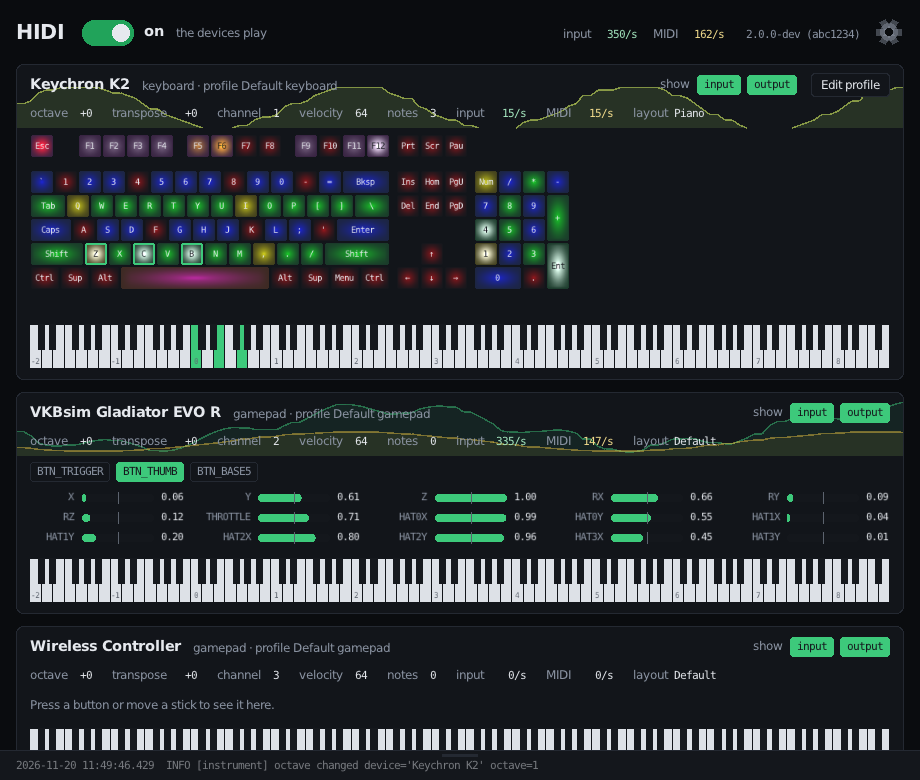
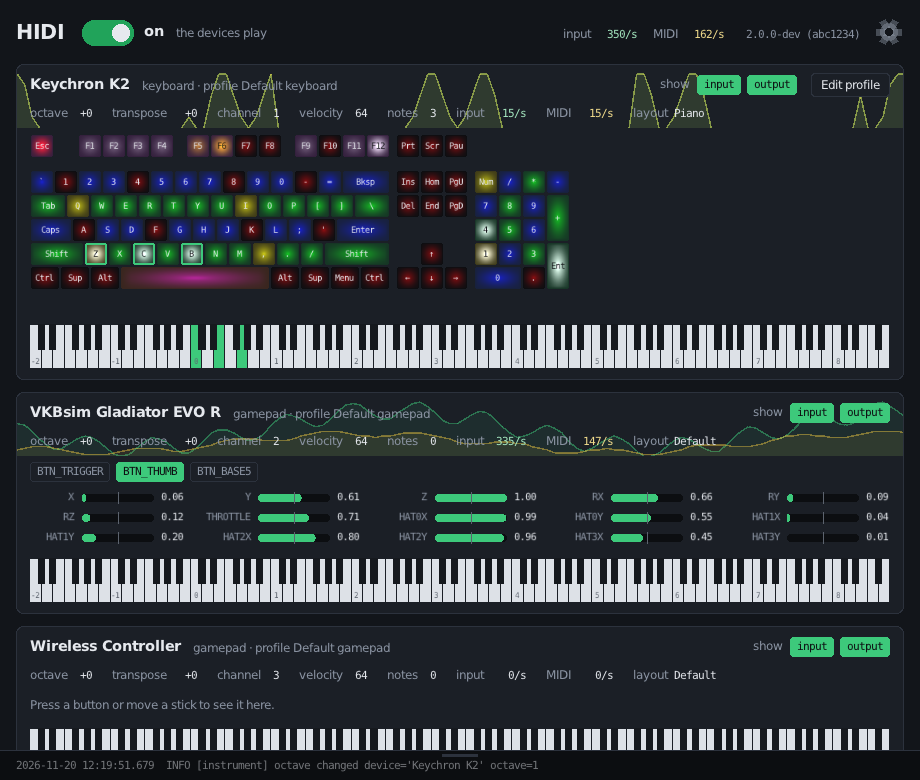
Documentation and pictures: the curves, the theme, Valve's controllers
Claude-Session: https://claude.ai/code/session_01BSpi87DutHCzCjSX2Ru5Rd

diff --git a/README.md b/README.md
@@ -165,8 +165,9 @@ turns HIDI off and on" in the
 ## The window
 
 Each instrument has two lines: its name and profile, and its state. Behind
-them runs a curve of the last twelve seconds: green for what came in from
-the device, yellow for what went out as MIDI. The two numbers for it take
+them runs a curve of the last twelve seconds, a tenth of a second at a
+time: green for what came in from the device, yellow for what went out as
+MIDI. The two numbers for it take
 the same colours while they are not zero, and the top of the window has them
 for all instruments together.
 The switches "input" and "output" beside "show" add what the device reports
@@ -492,6 +493,30 @@ Windows MIDI Services.
 
 `hidi --headless -v` logs every device HIDI looked at and why it left it
 alone, and `--log-midi` every MIDI message it sends.
+
+### Valve's Steam Controller
+
+On Linux the kernel's `hid-steam` driver presents Valve's controllers as
+game controllers, and HIDI plays them with a profile of its own, "Steam
+Controller": the stick bends the pitch, the trackpads and triggers send
+controllers, the buttons and paddles play notes.
+
+- Steam must not be running. While it is, it takes the controller for
+  itself and the kernel takes the game controller away.
+- The controller of 2015 works with any current kernel. While HIDI has it
+  open, its pads stop moving the mouse.
+- The controller of 2026 and the Steam Deck's controls need a kernel that
+  knows them; for the controller of 2026 that is a very recent one. They
+  start as a mouse and keyboard, and send nothing to HIDI until you hold
+  the button with the three lines (Start) for half a second, which
+  switches them to being a game controller. The same again switches back.
+- The motion sensors show up as a part called "Motion Sensors"; the
+  profile does not use them.
+
+On Windows these controllers are not supported yet. They speak a protocol
+of Valve's own there, and without Steam they are only a mouse and a
+keyboard. With Steam running and its controller support turned on, Steam
+presents them as an Xbox controller, which HIDI plays like any other.
 
 ### Beside an input remapper
 

diff --git a/docs/roadmap.md b/docs/roadmap.md
@@ -305,6 +305,18 @@ Later the same day, into the same pull request:
 Not tried: Windows; the keys of the editor with a keyboard HIDI has
 grabbed, which do not reach the window, as the page says.
 
+And after that:
+
+| Asked for | What was done |
+|---|---|
+| The curves without averaging, a tenth of a second at a time. | An instrument keeps the last 122 steps of a tenth of a second, each the events of that step alone, and sends them with its state. The two numbers stay counted over a second. |
+| The curves run evenly although they gain a value only ten times a second. | They are drawn moved to the left by the part of a step that has passed, with one value out of view at each end, so that none appears or goes at once. |
+| The window between the two darknesses. | Half way. |
+| The Steam Controller. | On Linux the kernel's `hid-steam` already presents Valve's controllers as game controllers; what HIDI lacked was a profile that knows what their controls are, since the general one takes a trackpad for a direction pad, and the names of the paddles (`BTN_GRIPL` and the other three, from a newer kernel header). Both are there. On Windows it stays for after 2.0; see there. |
+
+Not tried: a Steam Controller. The profile is written from the kernel's
+driver, not from a device.
+
 ## Done
 
 - Module layout, CI for Linux and Windows, and the architecture document.
